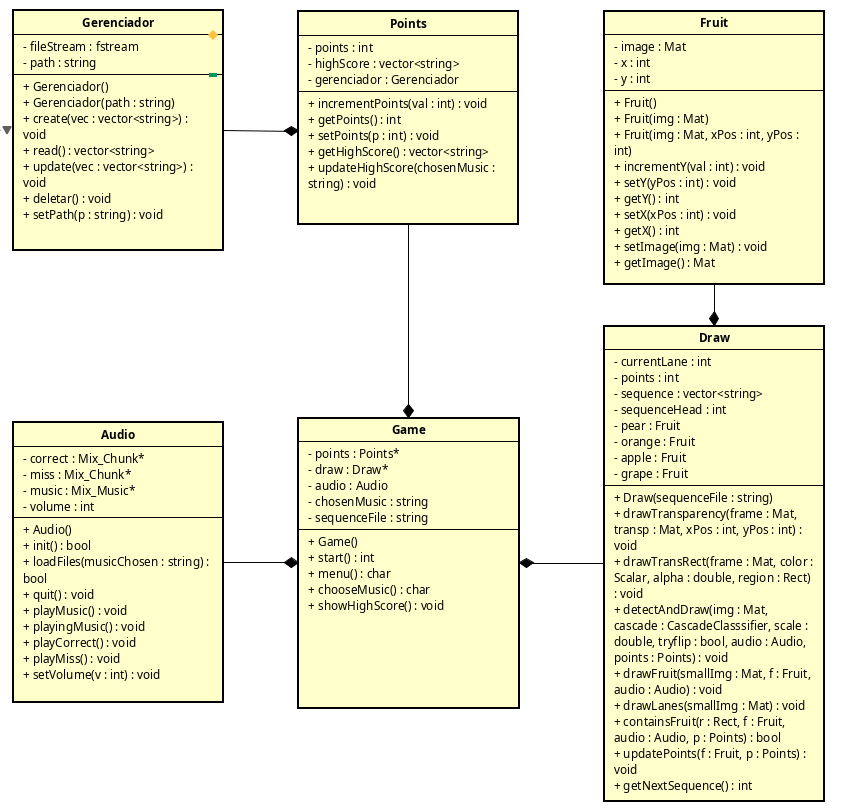
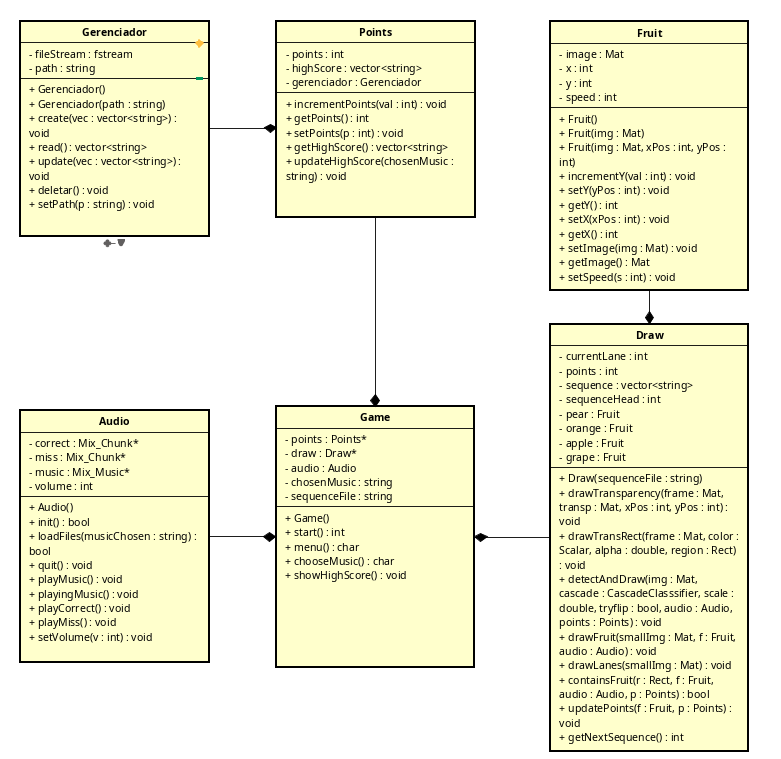
Adicionado atributo 'speed' na classe 'Fruit'

diff --git a/src/Draw.cpp b/src/Draw.cpp
@@ -28,15 +28,15 @@ Draw::Draw(std::string sequenceFile)
     // randomNumGen.set(MIN_LANE, MAX_LANE);
     // currentLane = randomNumGen.get();
     
-    orange = Fruit( imread("img/orange.png", IMREAD_UNCHANGED) );
-    pear = Fruit( imread("img/pears_resized.png", IMREAD_UNCHANGED) );
-    apple = Fruit( imread("img/apple_resized.png", IMREAD_UNCHANGED) );
-    grape = Fruit(imread("img/grape_resized.png", IMREAD_UNCHANGED) );
+    orange = Fruit( imread("img/orange.png", IMREAD_UNCHANGED), 100, 0 );
+    pear = Fruit( imread("img/pears_resized.png", IMREAD_UNCHANGED), 250, 0 );
+    grape = Fruit(imread("img/grape_resized.png", IMREAD_UNCHANGED), 390, 0 );
+    apple = Fruit( imread("img/apple_resized.png", IMREAD_UNCHANGED), 530, 0 );
     
-    orange.setX(100);
-    pear.setX(250);
-    grape.setX(390);
-    apple.setX(530);
+    orange.setSpeed(FRUIT_SPEED);
+    pear.setSpeed(FRUIT_SPEED);
+    grape.setSpeed(FRUIT_SPEED);
+    apple.setSpeed(FRUIT_SPEED);
     
 }
 
@@ -63,7 +63,7 @@ void Draw::drawFruit(cv::Mat& smallImg, Fruit& f, Audio& audio) {
     drawTransparency(smallImg, f.getImage(), f.getX(), f.getY());
 
     if (f.getY() < (smallImg.rows - f.getImage().rows)-FRUIT_SPEED) {
-        f.incrementY(FRUIT_SPEED);
+        f.increaseY();
     } 
     else {
         audio.playMiss();

diff --git a/src/Fruit.cpp b/src/Fruit.cpp
@@ -3,17 +3,20 @@
 Fruit::Fruit() {
     x = 0;
     y = 0;
+    speed = 0;
 }
 
-Fruit::Fruit(cv::Mat img) {
+Fruit::Fruit(cv::Mat img) : Fruit() {
     image = img;
-    x = 0;
-    y = 0;
 }
 
 Fruit::Fruit(cv::Mat img, int xPos, int yPos) : Fruit(img) {
     x = xPos;
     y = yPos;
+}
+
+void Fruit::setSpeed(int s) {
+    speed = s;
 }
 
 cv::Mat Fruit::getImage() {
@@ -40,6 +43,6 @@ int Fruit::getY() {
     return y;
 }
 
-void Fruit::incrementY(int val) {
-    y += val;
+void Fruit::increaseY() {
+    y += speed;
 }

diff --git a/include/Fruit.h b/include/Fruit.h
@@ -13,7 +13,9 @@ public:
     Fruit(cv::Mat img);
     Fruit(cv::Mat img, int xPos, int yPos);
 
-    void incrementY(int val);
+    void increaseY();
+
+    void setSpeed(int s);
 
     cv::Mat getImage();
 
@@ -31,4 +33,5 @@ private:
     cv::Mat image;
     int x;
     int y;
+    int speed;
 };
